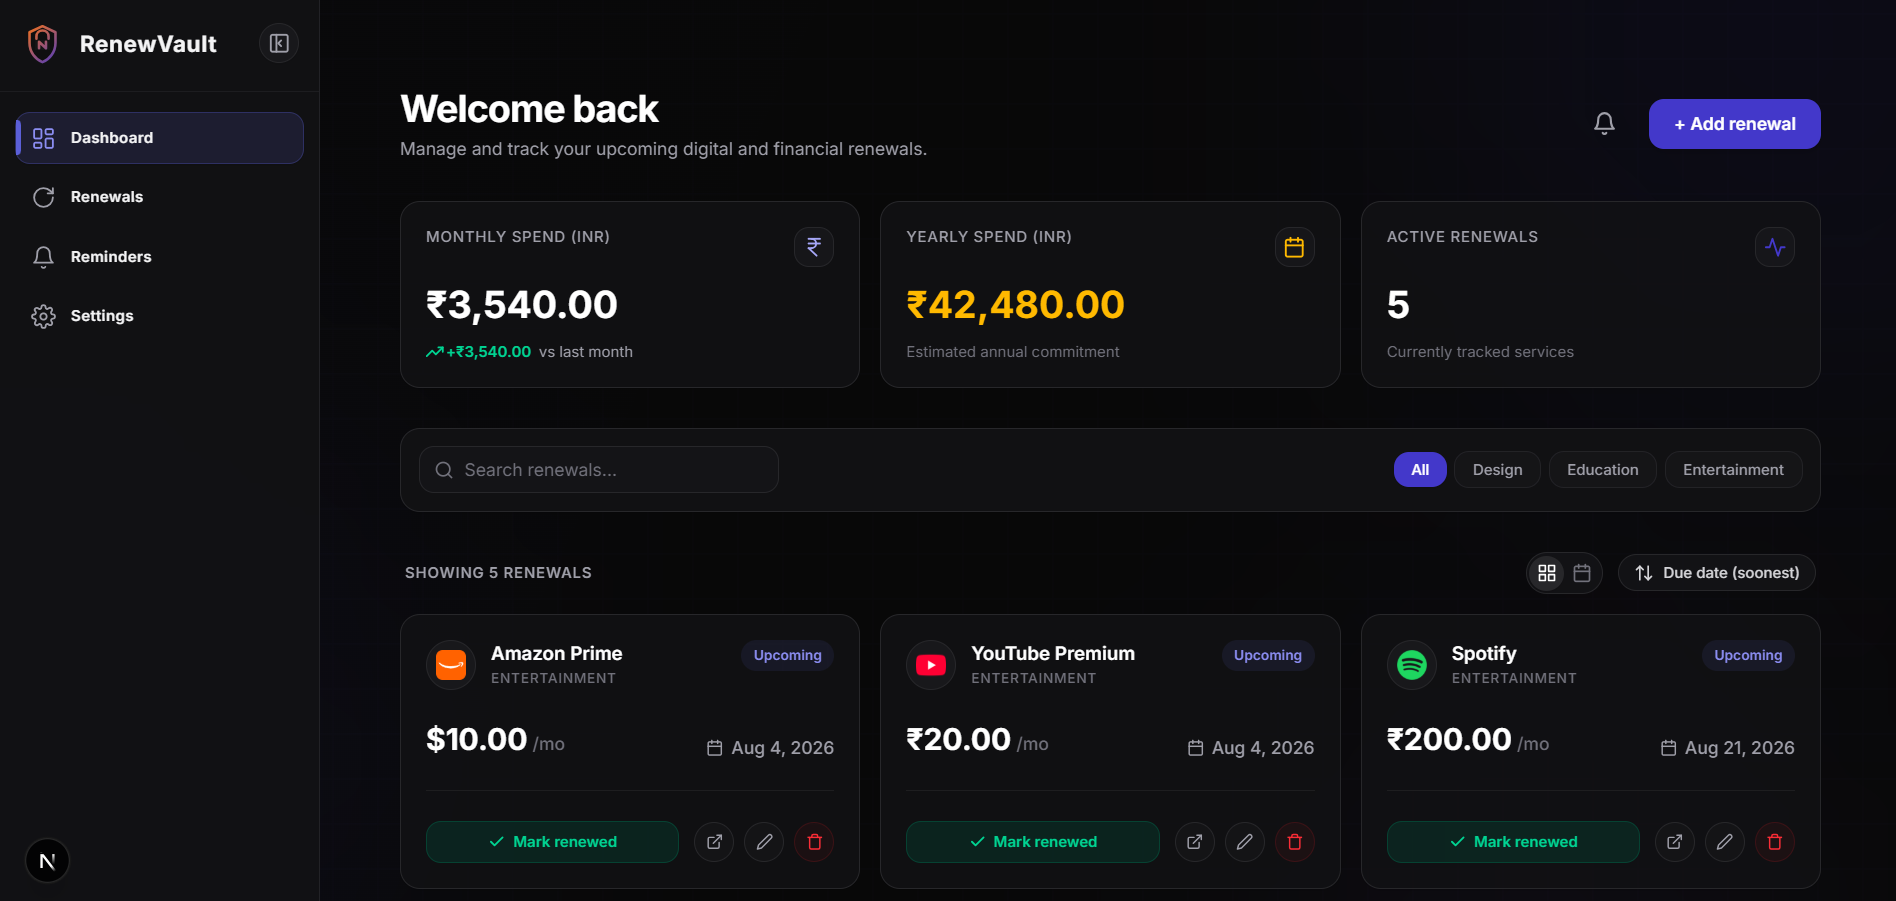
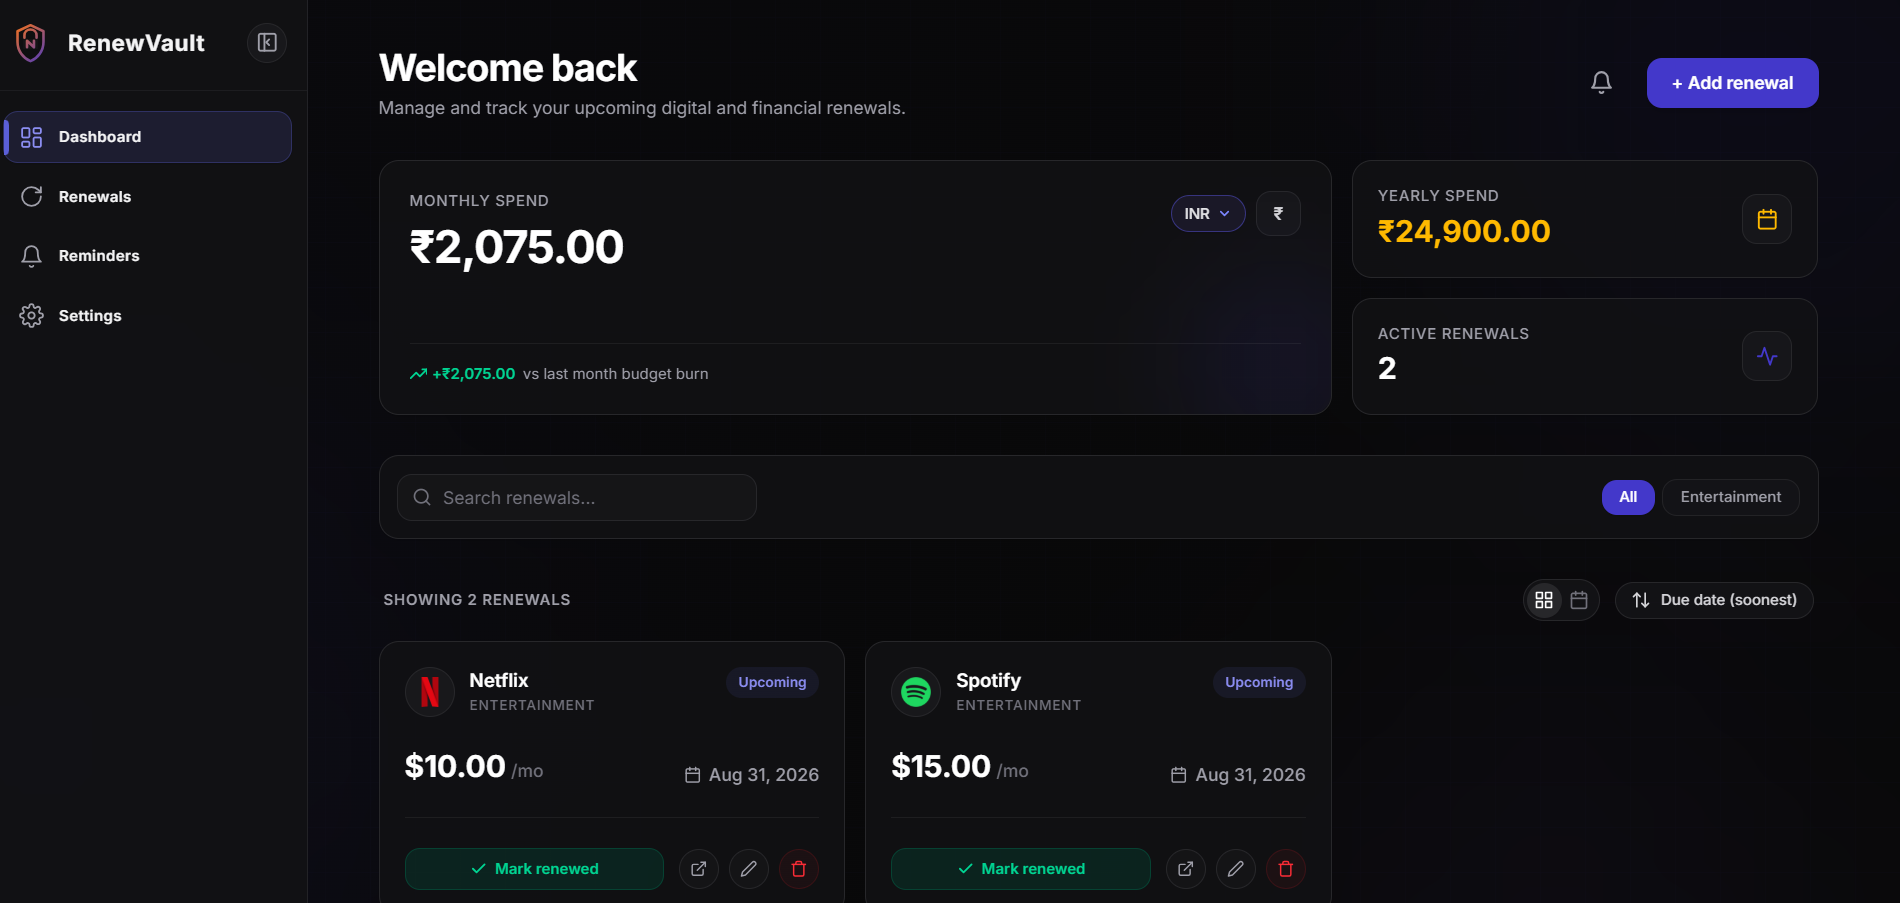
update readme

diff --git a/README.md b/README.md
@@ -18,11 +18,13 @@ RenewVault is a full-stack subscription and renewal tracking web application. It
 
 ## Features
 
-- **Dashboard overview** — welcome summary, filterable and sortable list of active renewals
-- **Renewal cards** — status-colored indicators (active, due soon, expired) with quick actions
+- **Dashboard overview** — welcome summary, filterable and sortable list of active renewals with live per-status counts on each filter chip
+- **Multi-currency spending summary** — view monthly and yearly spend converted across INR, USD, EUR, and GBP
+- **Renewal cards** — status-colored indicators (active, due soon, expired) with quick actions and accessible, touch-friendly controls
+- **Empty states** — clear guidance shown when there are no renewals yet or a search/filter returns no matches
+- **Mobile-first navigation** — dedicated top bar and bottom tab navigation for small screens, alongside a collapsible sidebar on desktop
 - **Reminders** — automated notifications for upcoming renewal dates via scheduled cron jobs
 - **Settings** — manage account and notification preferences
-- **Responsive sidebar navigation** — collapsible layout that adapts across desktop and mobile
 - **Auth** — secure sign-in/sign-up flow
 
 ## Tech Stack
@@ -60,6 +62,7 @@ renewvault/
 │   └── globals.css
 ├── lib/
 │   ├── types.ts        # Shared types (frontend + backend)
+│   ├── currency.ts      # Shared currency conversion utility
 │   ├── mock-data.ts     # Frontend-only mock data
 │   └── prisma.ts        # Backend database client
 ├── prisma/
@@ -176,11 +179,10 @@ git checkout -b feature/your-feature-name
 
 ## Roadmap
 
+- [ ] Live exchange rate API integration (currently static rates)
 - [ ] Additional dashboard features (see project mind map)
 
 ## Contributors
 
 - [Alfee123-web](https://github.com/Alfee123-web) — Frontend / UI
 - [akshat1602](https://github.com/akshat1602) — Backend / Auth / Database
-
-
